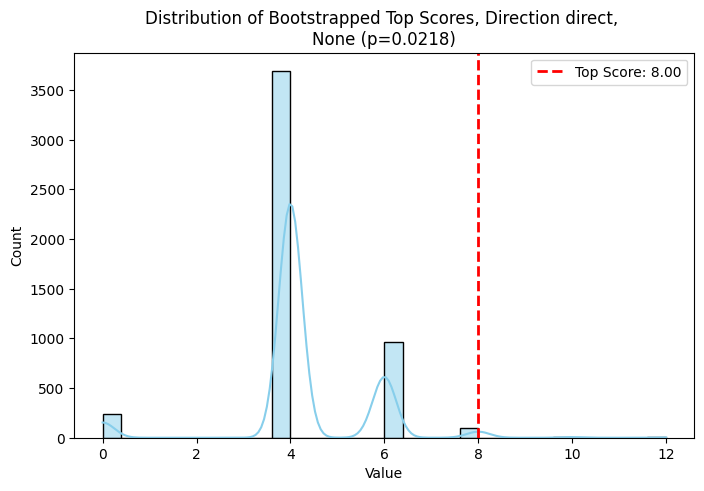
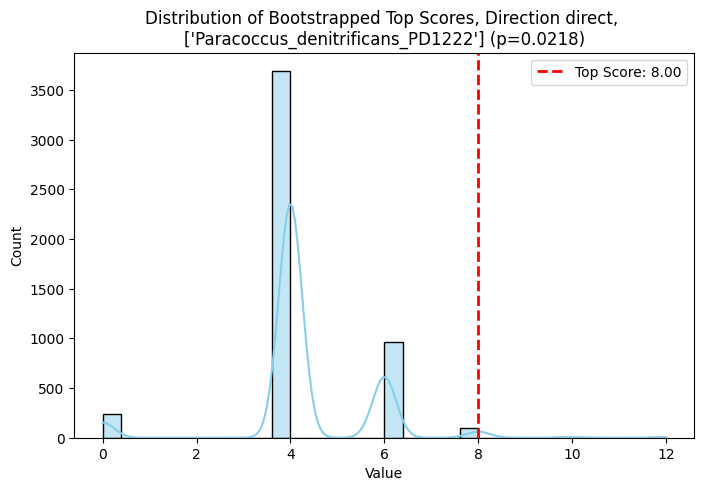
fallback issues

Changed region(s): [[0.25, 0.0611, 0.8438, 0.0916]]

diff --git a/drippy.py b/drippy.py
@@ -551,13 +551,22 @@ def map_back(motif, candidates):
 # Compute better thresholding using percentiles, not a fixed constant  
 ########################################################################
 
+
 def thresholder(metrics, percentile=75):
     flat_metrics = metrics.flatten()
     return np.percentile(flat_metrics, percentile)
 
+
+
 # %%
 
-def detect_patterns(import_filepath, export_filepath, direction = 'direct', metric = 'PIC-JSD', threshold_percentile = 80, background = None, plot_title = None, bootstrap_iterations = 5000):
+
+########################################################################
+# Orchestrator
+########################################################################
+
+
+def detect_patterns(import_filepath, export_filepath, direction = 'direct', metric = 'PIC-JSD', threshold_percentile = 80, min_threshold_percentile = 50, fallback_step = 5, minbackground = None, plot_title = None, bootstrap_iterations = 5000):
     
     # 1.  File IO, create PPM and Motif object
     motif = load_motif(import_filepath)
@@ -568,11 +577,33 @@ def detect_patterns(import_filepath, export_filepath, direction = 'direct', metr
 
     # 3. Compute IC-based threshold
     pic = compute_metrics(ppm, metric='PIC', direction=direction)
-    mythreshold = thresholder(pic, percentile=threshold_percentile)  
-    
+
+    mythreshold = thresholder(pic, percentile=threshold_percentile)
+
     # 4. Diagonal candidates and map back to get readable base pair segments   
+    candidates = [] # empty intial
+    pct_used_threshold = threshold_percentile
     
     candidates = score_diagonals(metrics, threshold = mythreshold, direction=direction)
+
+    #4a: sometimes, the initial threshold is too high, and there are no diagonals (>=2 cell runs) that meet the threshold to be valid candidates from score_diagonals. So, we add logic to iteratively decrement the user-defined threshold.
+
+    while not candidates:
+        mythreshold = thresholder(pic, percentile=pct_used_threshold)
+        candidates = score_diagonals(metrics, threshold=mythreshold, direction=direction)
+
+        if not candidates:
+            if pct_used_threshold - fallback_step < min_threshold_percentile:
+                print(f"[DETECT_PATTERNS] Exhausted all fallbacks down to {min_threshold_percentile}th percentile. No diagonal candidates >=2 positions found. Lower min_threshold_percentile to find candidates.")
+                return None
+            print(f"[DETECT_PATTERNS] No candidates at {pct_used_threshold}th percentile, trying {pct_used_threshold - fallback_step}%...")
+            pct_used_threshold -= fallback_step
+            
+
+    if pct_used_threshold != threshold_percentile:
+        print(f"[DETECT_PATTERNS] Fell back to {pct_used_threshold}th percentile (threshold: {mythreshold:.4f})")
+
+
     mapped_result = map_back(motif, candidates)
 
     # 5. bootstrapping
@@ -593,7 +624,6 @@ def detect_patterns(import_filepath, export_filepath, direction = 'direct', metr
     mapped_result["p_value"] = p_values
     mapped_result.to_excel(f"{export_filepath}.xlsx")
 
-    print(candidates)
     # get top scores
     top_score = max(candidate["score"] for candidate in candidates)
     p_value = np.sum(boot_array >= top_score) / len(boot_array)
@@ -625,7 +655,8 @@ def detect_patterns(import_filepath, export_filepath, direction = 'direct', metr
         candidates=candidates,
         mapped_result=mapped_result,
         plots={'histogram': fig_hist, 'matrix': fig_matrix,
-               'bootstrap_histogram': fig_boot}
+               'bootstrap_histogram': fig_boot},
+        threshold_note = (f"[{plot_title}: ]No diagonal candidates were possible at the selected {threshold_percentile}% threshold for {import_filepath}, automatically reduced to {pct_used_threshold}%, at value {mythreshold}.")
     )
 
 # %%
@@ -736,13 +767,17 @@ if __name__ == "__main__":
     motif = load_motif(import_filepath)
     ppm =  make_ppm(motif)
     
+    # motif.weblogo("test.png", format='png')
+
     # 2. Compute metrics matrix 
     metrics = compute_metrics(ppm, metric=metric, direction=direction)
 
     # 3. Compute IC-based threshold
     pic = compute_metrics(ppm, metric='PIC', direction=direction)
-    mythreshold = thresholder(pic, percentile=80)  
     
+    mythreshold, override = thresholder(pic, percentile=80)  
+    
+    histogram_scores(metrics)
     # 4. Diagonal candidates and map back to get readable base pair segments   
     
     candidates = score_diagonals(metrics, threshold = mythreshold, direction=direction)

diff --git a/MAYMOTIF-Reporting.py b/MAYMOTIF-Reporting.py
@@ -111,8 +111,6 @@ markdown_lines.append("|---|---|---|---|---|---|")
 
 for row in filepaths_dedupe.itertuples(index=False):
 
-    row = list(filepaths_dedupe.itertuples(index=False))[0]
-
     uid = row.UniProtID
     filepath = row.Filepath
     note = row.Note
@@ -125,8 +123,6 @@ for row in filepaths_dedupe.itertuples(index=False):
     # Analyze Direct and Reverse
     for direction in ['direct', 'reverse']:
         
-        direction = 'reverse'
-
         # Run your existing function
         res = dp.detect_patterns(
             import_filepath=filepath,